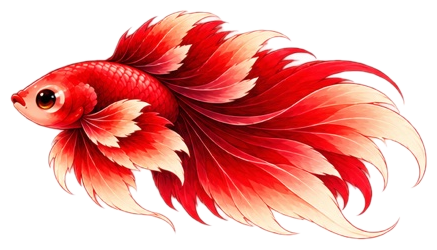
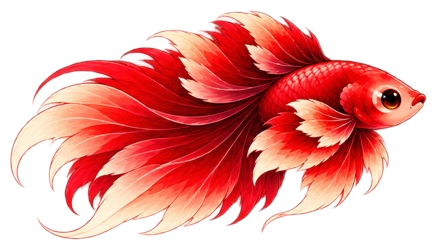
Rose/Ember: flip swim frames to face right (SPRITE_V 59)

diff --git a/public/js/data.js b/public/js/data.js
@@ -87,7 +87,7 @@ const DATA = {
 
 /** Frame roles: 0 idle, 1-4 swim, 5 eat (only while eating), 6 sleep, 7 rear/turn */
 // Bump SPRITE_V whenever shipped art changes so phones don't keep stale cached PNGs.
-const SPRITE_V = 58;
+const SPRITE_V = 59;
 // Species with a custom hybrid egg icon (assets/eggs/<species_id>.png).
 const EGG_V = 11;
 const EGG_ART = {
